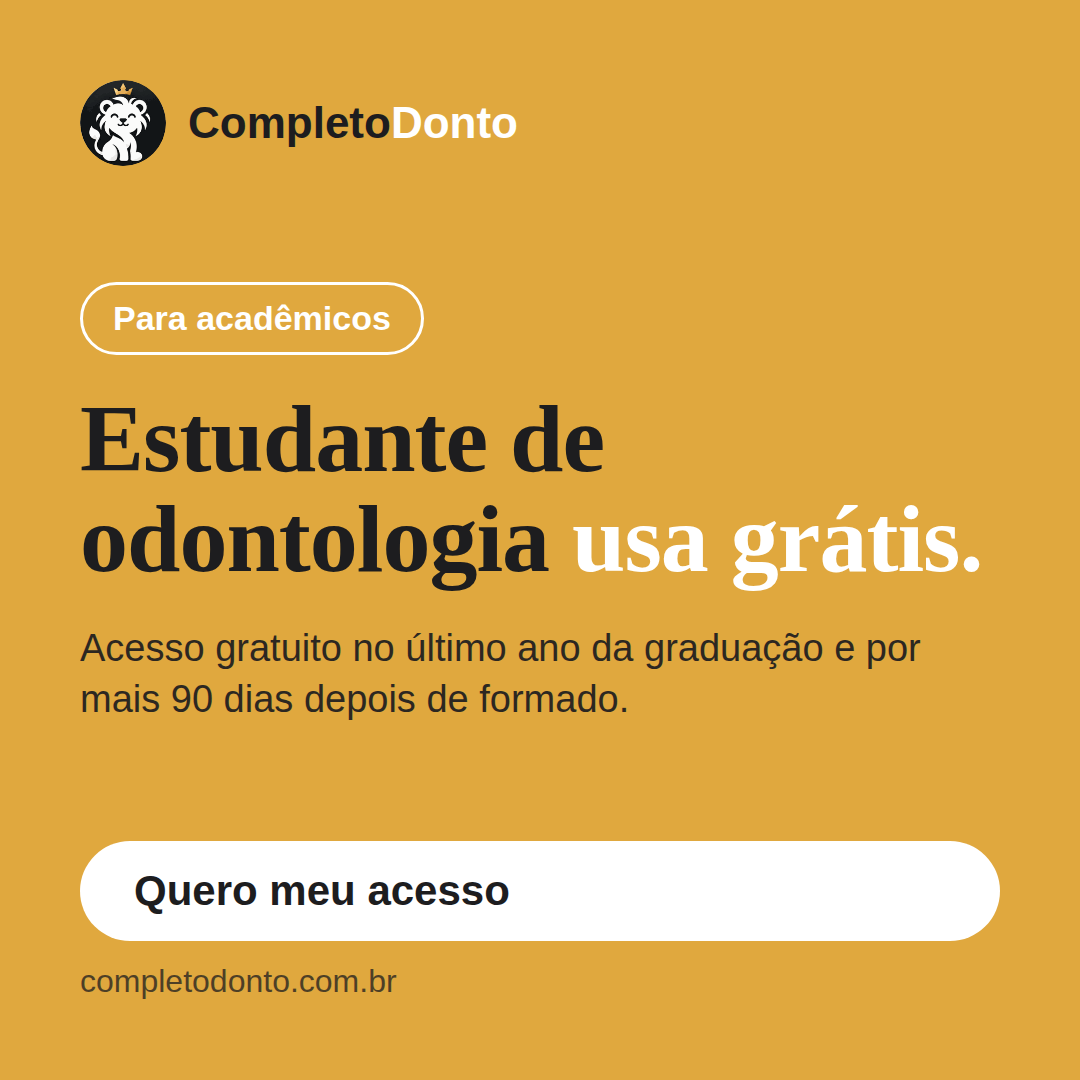
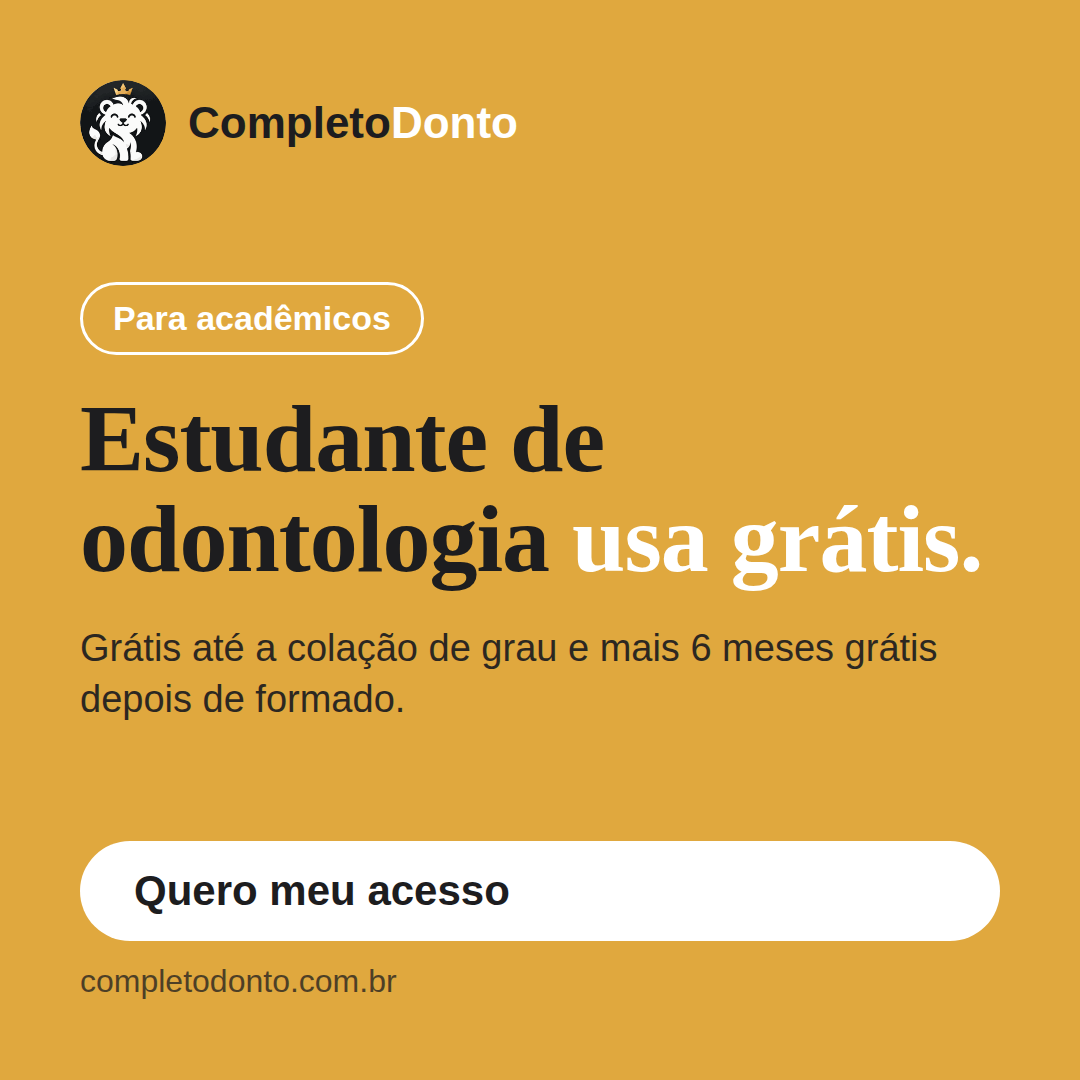
Regra dos academicos: gratis ate a colacao + 6 meses (CLAUDE.md, README, card Meta Ads) (#127)
Claude-Session: https://claude.ai/code/session_01H3ekGTrDmRFrP679Xp3t2w

Changed region(s): [[0.0611, 0.5806, 0.8861, 0.6722]]

diff --git a/docs/landing/README.md b/docs/landing/README.md
@@ -6,7 +6,7 @@
 ## Política de atratividade e lançamento (definida em 03/10/2026)
 - **Promoção de lançamento:** 30 dias grátis, sem cartão de crédito, e **50% de desconto nos 12 meses seguintes**.
 - **Planos:** Basic R$ 197/mês, Intermedium R$ 397/mês, Plenum R$ 597/mês (com 50% no 1º ano: R$ 98,50, R$ 198,50 e R$ 298,50).
-- **Acadêmicos de odontologia:** acesso gratuito durante o último ano da graduação e por mais 90 dias depois da formatura (carência); depois, mensalidade reduzida (50% de desconto) nos 12 meses seguintes. Profissionais: 30 dias grátis e 50% de desconto nos 12 meses seguintes. Estudantes de outros períodos: My Students, R$ 23/mês.
+- **Acadêmicos de odontologia:** acesso gratuito até a colação de grau e por mais 6 meses grátis depois da formatura (regra de 19/10/2026); depois, mensalidade reduzida (50% de desconto) nos 12 meses seguintes. Profissionais: 30 dias grátis e 50% de desconto nos 12 meses seguintes. Estudantes de outros períodos: My Students, R$ 23/mês.
 - **Instalação:** em destaque apenas a instalação gratuita feita pelo próprio assinante (passo a passo + IA integrada). Discretas: assistida remota R$ 499 em 5x no cartão; feita pela equipe R$ 2.000 em 10x no cartão.
 - **Cobrança:** sem cartão no teste; depois, cobrança por Asaas ou Mercado Pago (a implementar em até 30 dias).
 

diff --git a/CLAUDE.md b/CLAUDE.md
@@ -14,7 +14,7 @@ Monorepo: `frontend/` (React + Vite + MUI), `backend/` (Express + Prisma, Postgr
 
 ## Palavras e regras de produto
 - "Cobrar" é só para cobrança de atraso. A ação que cria boleto, Pix, cartão, cheque ou dinheiro chama-se **"Gerar financeiro"**.
-- Planos: Basic R$ 197, Intermedium R$ 397, Plenum R$ 597 por mês. Profissionais: 30 dias grátis sem cartão e 50% de desconto nos 12 meses seguintes. Acadêmicos (último ano): gratuito no último ano e 90 dias depois da formatura, depois mensalidade reduzida (50%, a confirmar) por 12 meses. Estudantes (My Students): R$ 23 por mês (a confirmar).
+- Planos: Basic R$ 197, Intermedium R$ 397, Plenum R$ 597 por mês. Profissionais: 30 dias grátis sem cartão e 50% de desconto nos 12 meses seguintes. Acadêmicos: gratuito até a colação de grau e mais 6 meses grátis depois da formatura (regra de 19/10/2026; concedida manualmente na conta, sem automação no sistema), depois mensalidade reduzida (50%, a confirmar) por 12 meses. Estudantes (My Students): R$ 23 por mês (a confirmar).
 - Pendências, filas e avisos nunca somem; o travamento de tela foi trocado pelo alerta "VOCÊ ESTÁ EM RISCO".
 - O funcionário só vê os próprios dados de RH; RH, administração e gestor veem tudo.
 
